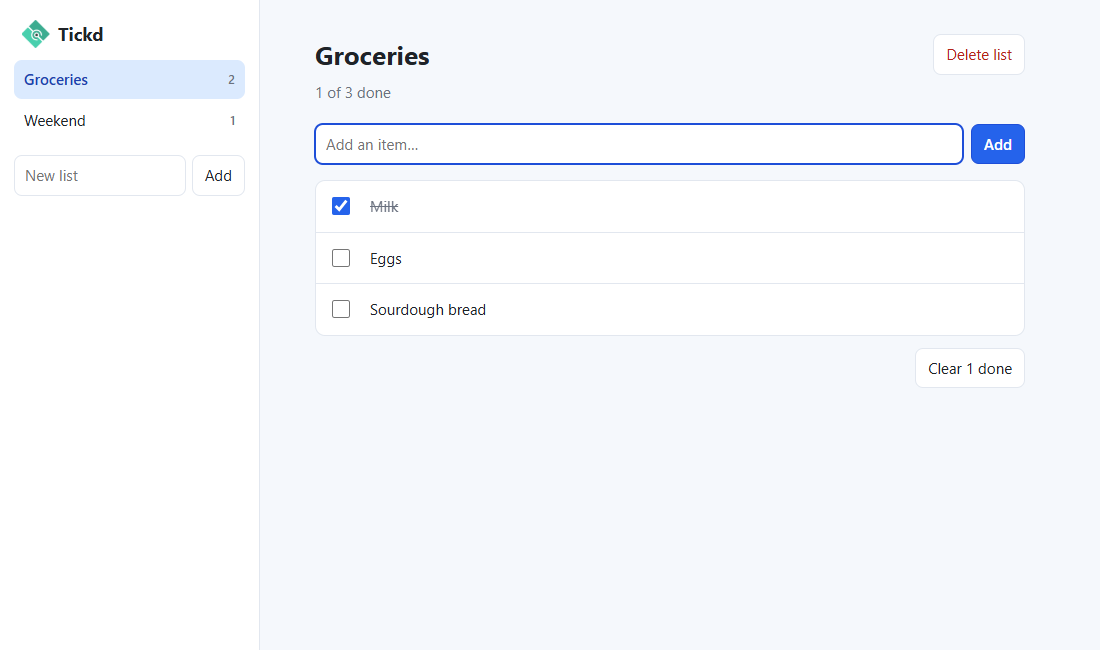
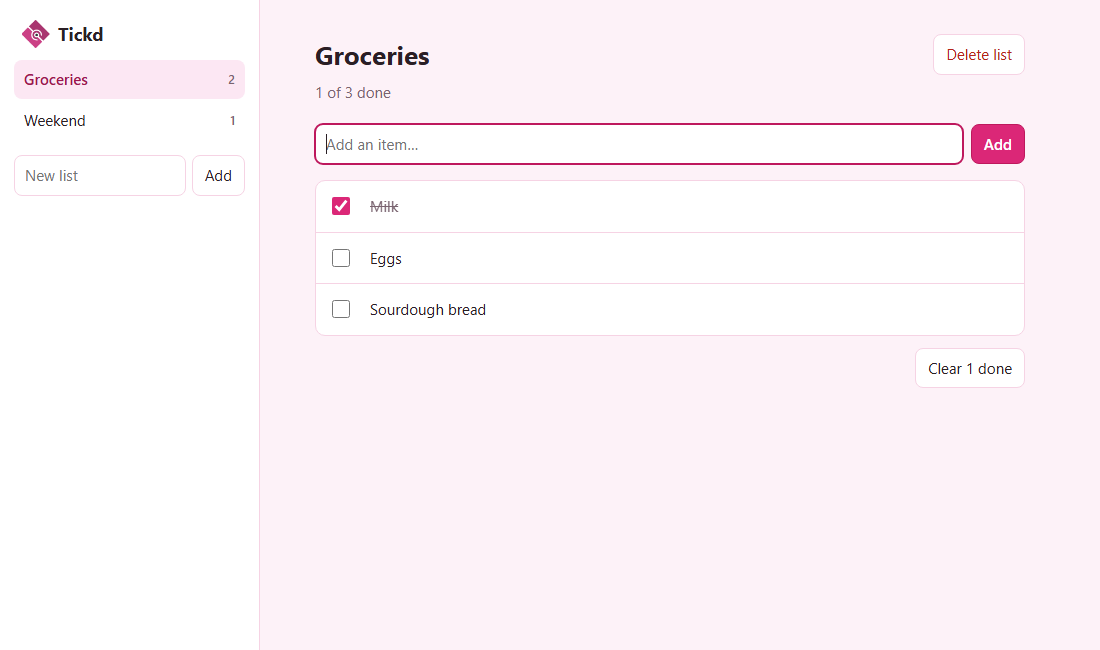
Switch the app to a pink theme
Swap the blue accent palette for pinks, tint the page background and
borders pink, recolour the logo, and refresh the README screenshot.

diff --git a/index.html b/index.html
@@ -7,15 +7,15 @@
   <link rel="icon" type="image/png" href="logo.png">
   <style>
     :root {
-      --bg: #f5f8fc;
+      --bg: #fdf2f8;
       --panel: #ffffff;
-      --ink: #1f2328;
-      --muted: #6b7280;
-      --line: #e2e7ef;
-      --accent: #2563eb;
-      --accent-strong: #1d4ed8;
-      --accent-ink: #1e40af;
-      --accent-soft: #dbeafe;
+      --ink: #2a1f25;
+      --muted: #7a6470;
+      --line: #f6d3e4;
+      --accent: #db2777;
+      --accent-strong: #be185d;
+      --accent-ink: #9d174d;
+      --accent-soft: #fce7f3;
       --danger: #b42318;
       --radius: 10px;
     }
